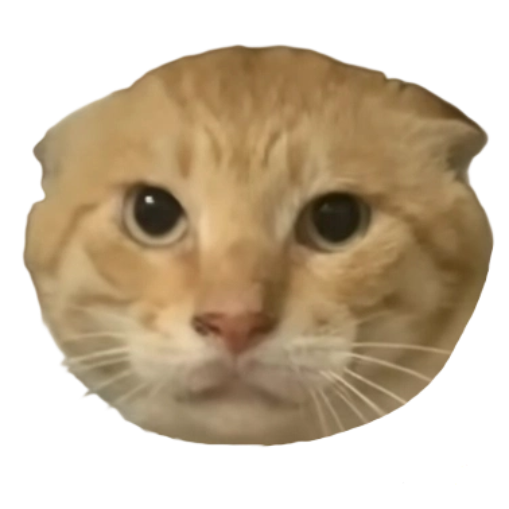
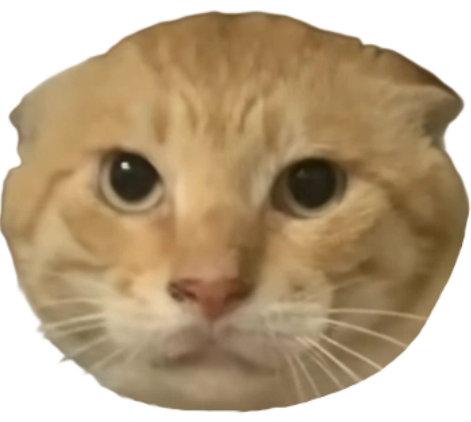
1.稍微放大了snake_head_tile的png图片，新增snake_body_tile的png图片 2.修改了snakeBodys数组的储存数据，由snakeBody本身到指向snakeBody的智能指针 3.新增初始化纹理的方法initBodyTexture()

diff --git a/srcs/SnakeBody.h b/srcs/SnakeBody.h
@@ -2,11 +2,15 @@
 #include "SnakeHead.h"
 #include "vec2.h"
 #include <vector>
+
+constexpr const char* SNAKE_BODY_IMG_PATH = "../assets/snake_body_tile.png";
+
 class SnakeBody : public Snake
 {
     public:
         SnakeBody():Snake()
         {
+
         }
         ~SnakeBody()=default;        
         void updateBodyPosition();//set position
@@ -16,9 +20,24 @@ class SnakeBody : public Snake
             return position;
         }
 
+        SDL_Texture* getBodyTexture() const
+        {
+            return bodyTexture.get();
+        }
+
+        void initBodyTexture(SDL_Renderer* renderer)
+        {
+            bodyTexture.reset(IMG_LoadTexture(renderer, SNAKE_BODY_IMG_PATH)); 
+            if (!bodyTexture) {
+                SDL_Log("Failed to load texture: %s", SDL_GetError());
+            }
+        }
         // 必须实现基类的纯虚函数，否则它是一个抽象类，无法被实例化
         void move() override {}
         void changeDirection(int dx, int dy) override {}
+
     private:     
+
+        SmartTexture bodyTexture;
 
 };

diff --git a/srcs/DrawManager.cpp b/srcs/DrawManager.cpp
@@ -71,24 +71,26 @@ void DrawManager::drawSnakeHead(SDL_Renderer* renderer)
      
 }
 
-void DrawManager::createSnakeBody()
+void DrawManager::createSnakeBody(SDL_Renderer* renderer)//每次吃到食物时调用
 {
-    snakeBodys.emplace_back();
+    snakeBodys.emplace_back(std::make_unique<SnakeBody>());
+    snakeBodys.back()->initBodyTexture(renderer);
+         
 }
 
-void DrawManager::updateBodyPosition()
+void DrawManager::updateBodyPosition()//每帧调用，更新lastPositions，lastPositions里存储了每个蛇身体的上一个位置，在drawSnakeBody里根据lastPositions画出蛇身体
 {
     lastPositions[0] = snakeHead.getPosition();
     if(snakeBodys.size()>1)
     {
         for(size_t i=1;i<snakeBodys.size();i++)
         {
-            lastPositions[i] = snakeBodys[i-1].getPosition();
+            lastPositions[i] = snakeBodys[i-1]->getPosition();
         }
     }
 }
 
-void DrawManager::deleteSnakeBody()
+void DrawManager::deleteSnakeBody()//还没想好，maybe会有毒药
 {
     //这就是不把lastPositions和snakeBodys放在snakeBody类里面的坏处，需要分别管理lastPositions和snakeBodysRects
     if(!snakeBodys.empty())
@@ -115,7 +117,7 @@ void DrawManager::drawSnakeBody(SDL_Renderer* renderer)
     {        
         SDL_Rect bodyRect{INIT_POSX+position.getX()*TILE_SIZE,INIT_POSY+position.getY()*TILE_SIZE, TILE_SIZE, TILE_SIZE};
         snakeBodyRects.emplace_back(bodyRect);
-        SDL_RenderCopy(renderer, snakeHead.getHeadTexture(), nullptr, &bodyRect); 
+        SDL_RenderCopy(renderer, snakeBodys[0]->getBodyTexture(), nullptr, &bodyRect); 
     }
 }
 
@@ -241,7 +243,7 @@ void DrawManager::updateGrid()
     //更新蛇身体的位置
     for(const auto& body : snakeBodys)
     {
-        grid[body.getPosition().getY()][body.getPosition().getX()] = 2;
+        grid[body->getPosition().getY()][body->getPosition().getX()] = 2;
     }
 
     //更新食物的位置

diff --git a/srcs/DrawManager.h b/srcs/DrawManager.h
@@ -37,7 +37,7 @@ class DrawManager
         }
 
 
-        void createSnakeBody();
+        void createSnakeBody(SDL_Renderer* renderer);
         void updateBodyPosition();//store positions in "lastPositions"
         void drawSnakeBody(SDL_Renderer* renderer);
         void deleteSnakeBody();
@@ -72,7 +72,7 @@ class DrawManager
         std::vector<std::vector<int>> grid= std::vector<std::vector<int>>(board.getHeight(), std::vector<int>(board.getWidth(), 0));
 
         inline static std::vector<vec2> lastPositions;
-        inline static std::vector<SnakeBody> snakeBodys;
+        inline static std::vector<std::unique_ptr<SnakeBody>> snakeBodys;
         inline static std::vector<std::unique_ptr<Food>> foods;
 
 